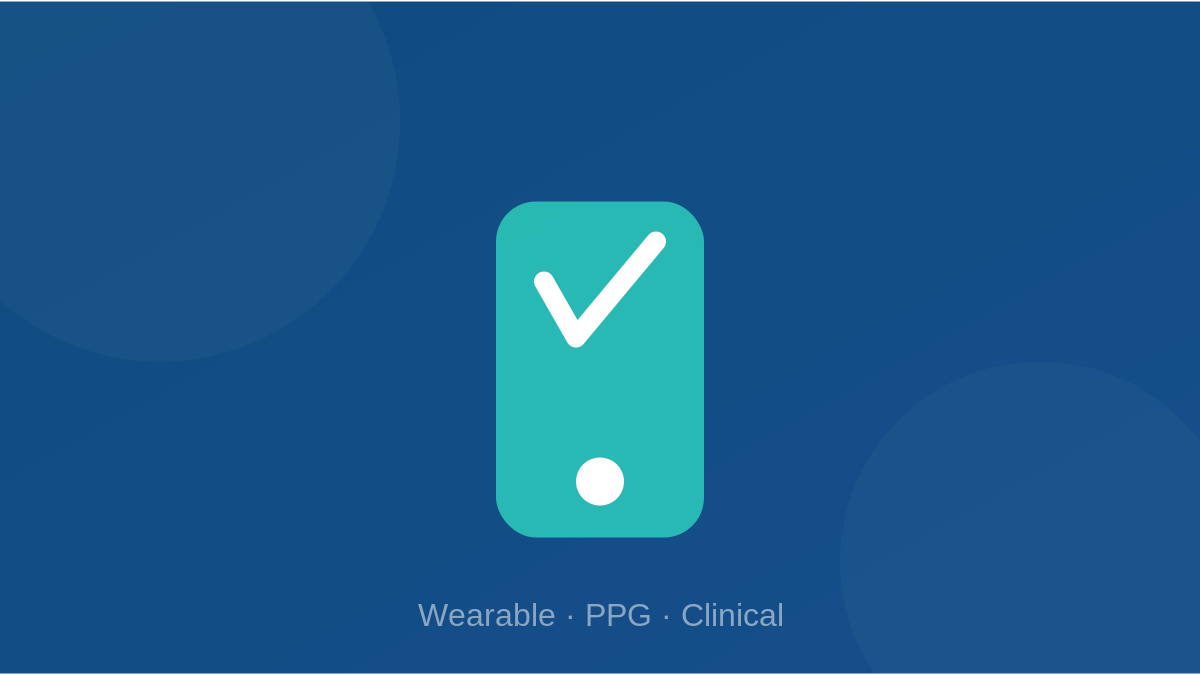
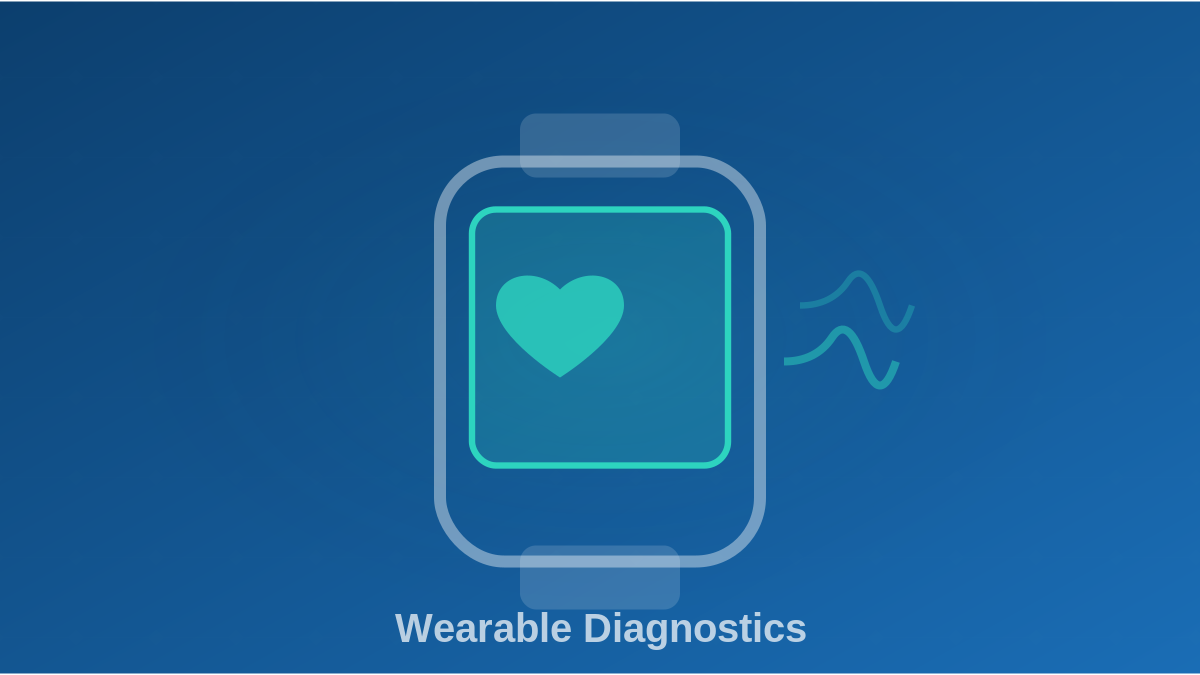
Redesign project images, improve desktop layout responsiveness

Changed region(s): [[0.3083, 0.1556, 1.0, 1.0]]

diff --git a/assets/scss/custom.scss b/assets/scss/custom.scss
@@ -90,6 +90,47 @@ footer {
 .hbb-section:nth-child(3) { animation-delay: 0.2s; }
 .hbb-section:nth-child(4) { animation-delay: 0.3s; }
 
+// ── Desktop Layout: wider content, tighter spacing ──
+@media (min-width: 1200px) {
+  .page-body {
+    max-width: 1100px;
+    margin: 0 auto;
+  }
+  .hbb-section {
+    padding-top: 2.5rem;
+    padding-bottom: 2.5rem;
+  }
+}
+
+@media (min-width: 992px) {
+  // Wider content container
+  .container {
+    max-width: 960px;
+  }
+  // Project cards: ensure proper grid display
+  .hb-cards.grid {
+    display: grid;
+    grid-template-columns: repeat(2, 1fr);
+    gap: 1.5rem;
+  }
+  // Better card image aspect ratio
+  .card img {
+    aspect-ratio: 16 / 9;
+    object-fit: cover;
+  }
+}
+
+@media (min-width: 1400px) {
+  .container {
+    max-width: 1140px;
+  }
+}
+
+// ── Reduce empty space between sections ──
+.hbb-section + .hbb-section {
+  margin-top: -1rem;
+}
+
 // ── Dark Mode ──
 .dark {
   .card {

diff --git a/content/_index.md b/content/_index.md
@@ -5,7 +5,7 @@ date: 2022-10-24
 type: landing
 
 design:
-  spacing: '6rem'
+  spacing: '4rem'
 
 sections:
   - block: resume-biography-3
@@ -43,8 +43,8 @@ sections:
           - project
       count: 0
     design:
-      view: showcase
-      columns: 1
+      view: card
+      columns: 2
 
   - block: collection
     id: publications
